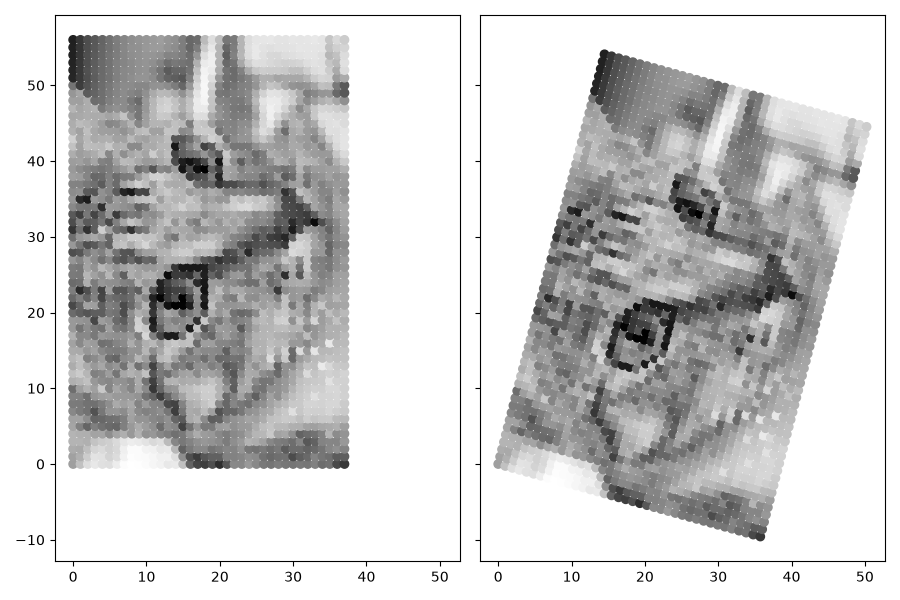
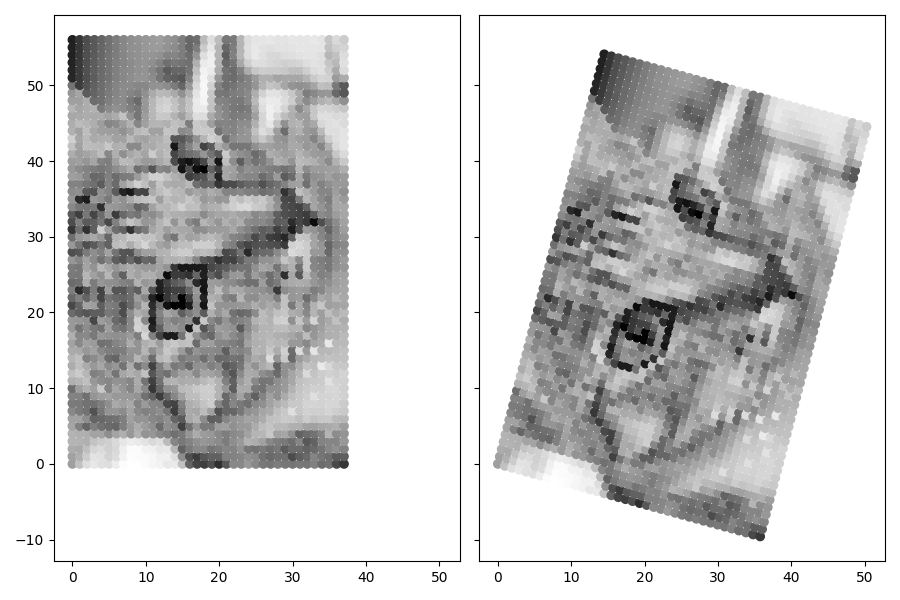
add lab2.py

diff --git a/Lab2/lab2.py b/Lab2/lab2.py
@@ -4,89 +4,117 @@ from skimage import data
 from skimage.transform import warp, AffineTransform
 from scipy.spatial.distance import cdist
 
-# ---------- Zadanie 1 ----------
-fig, ax = plt.subplots(3, 2, figsize=(10, 7))
+# Zadanie 1
+fig1, ax1 = plt.subplots(2, 2, figsize=(10, 7))
 
-img = data.chelsea()            # jak nie dziala, to: img = data.cat()
-ax[0, 0].imshow(img)
-ax[0, 0].set_title('Chelsea')
+obraz = data.cat()
+ax1[0,0].imshow(obraz)
+ax1[0,0].set_title('Chelsea')
 
-mono = np.mean(img, axis=2)     # srednia z 3 kanalow -> obraz szary
-male = mono[::8, ::8]           # co osmy piksel w obu osiach
-ax[0, 1].imshow(male, cmap='binary_r')
-ax[0, 1].set_title('Zmniejszenie + Mono')
+mono = np.mean(obraz, axis=2)
 
-kat = np.radians(15)            # 15 stopni na radiany
+male = mono[::8,::8]
 
-rotacja = np.array([[ np.cos(kat), np.sin(kat), 0],
-                    [-np.sin(kat), np.cos(kat), 0],
-                    [ 0,           0,           1]])
+ax1[0,1].imshow(male, cmap='binary_r')
+ax1[0,1].set_title('Zmnniejszony + Mono')
 
-pochylenie = np.array([[1, 0.5, 0],
-                       [0, 1,   0],
-                       [0, 0,   1]])
+kat = np.radians(15)
+c = np.cos(kat)
+s = np.sin(kat)
 
-obraz_rot = warp(male, AffineTransform(matrix=rotacja))
-obraz_poch = warp(male, AffineTransform(matrix=pochylenie))
+rotacja = np.array([[ c, s, 0],
+                    [-s, c, 0],
+                    [ 0, 0, 1]])
 
-ax[1, 0].imshow(obraz_rot, cmap='binary_r')
-ax[1, 0].set_title('Rotacja')
-ax[1, 1].imshow(obraz_poch, cmap='binary_r')
-ax[1, 1].set_title('Pochylenie')
+pochylenie = np.array([[1, -0.5, 0],
+                       [0, 1, 0],
+                       [ 0, 0, 1]])
+
+transformacja_rotacja = AffineTransform(matrix = rotacja)
+transformacja_pochylenie = AffineTransform(matrix = pochylenie)
+
+obraz_rotacja = warp(male, rotacja)
+obraz_pochylenie = warp(male, pochylenie)
+
+ax1[1,0].imshow(obraz_rotacja, cmap='binary_r')
+ax1[1,0].set_title('Rotacja')
+ax1[1,1].imshow(obraz_pochylenie, cmap='binary_r')
+ax1[1,1].set_title('Pochylenie')
 
 plt.tight_layout()
 plt.savefig('zad1.png')
 
-# ---------- Zadanie 2 ----------
-fig, ax = plt.subplots(1, 2, figsize=(9, 6), sharex=True, sharey=True)
+# Zadanie 2
+
+fig2, ax2 = plt.subplots(1, 2, figsize=(9, 6), sharex=True, sharey=True)
+
+wiersze = male.shape[0]
+kolumny = male.shape[1]
 
 wsp = []
-for i in range(male.shape[0]):
-    for j in range(male.shape[1]):
+for i in range(wiersze):
+    for j in range(kolumny):
         wsp.append([i, j])
-wsp = np.array(wsp)             # ksztalt (2166, 2)
+wsp = np.array(wsp)
 
-kolory = male.flatten()         # obraz 2D -> jeden dlugi wektor
+kolory = male.flatten()
 
-ax[0].scatter(wsp[:, 0], wsp[:, 1], c=kolory, cmap='binary_r')
+x = wsp[:, 0]
+y = wsp[:, 1]
+
+ax2[0].scatter(x,y, c = kolory, cmap='binary_r')
+#ax2[0].set_title('test')
 
 jedynki = np.ones(len(wsp))
-wsp3 = np.column_stack((wsp, jedynki))   # ksztalt (2166, 3)
+wsp3 = np.column_stack((wsp, jedynki))
 
-nowe = (rotacja @ wsp3.T).T     # A x [x, y, 1] dla kazdego punktu
+nowe = []
+for punkt in wsp3:
+    nowy_punkt = rotacja @ punkt
+    nowe.append(nowy_punkt)
+nowe = np.array(nowe)
 
-ax[1].scatter(nowe[:, 0], nowe[:, 1], c=kolory, cmap='binary_r')
+# print("Po dodaniu jedynek:")
+# print(nowe)
+
+nowe_x = nowe[:, 0]
+nowe_y = nowe[:, 1]
+
+ax2[1].scatter(nowe_x, nowe_y, c=kolory, cmap='binary_r')
 
 plt.tight_layout()
 plt.savefig('zad2.png')
 
-# ---------- Zadanie 3 ----------
-fig, ax = plt.subplots(1, 3, figsize=(12, 6))
+# Zadanie 3
+fig3, ax3 = plt.subplots(1, 3)
 
-ax[0].scatter(wsp[:, 0], wsp[:, 1], c=kolory, cmap='binary_r')
+ax3[0].scatter(x, y, c=kolory, cmap='binary_r')
 
-indeksy = np.random.choice(len(wsp), 1000, replace=False)
-wsp_los = wsp[indeksy]
-kolory_los = kolory[indeksy]
+ile_punktow = len(wsp)
+indeksy = np.random.choice(ile_punktow, 1000, replace=False)
 
-ax[1].scatter(wsp_los[:, 0], wsp_los[:, 1], c=kolory_los, cmap='binary_r')
+wspolrzedne_losowych = wsp[indeksy]
+kolory_losowych = kolory[indeksy]
 
-nowe_x = np.linspace(0, male.shape[0] - 1, 300)
-nowe_y = np.linspace(0, male.shape[1] - 1, 400)
+ax3[1].scatter(wspolrzedne_losowych[:, 0], wspolrzedne_losowych[:, 1], c=kolory_losowych, cmap='binary_r')
 
-xs = []
-ys = []
-wartosci = []
-for x in nowe_x:
-    for y in nowe_y:
-        odl = cdist([[x, y]], wsp_los)      # odleglosc do 1000 punktow
-        najblizszy = np.argmin(odl)         # indeks najblizszego
-        xs.append(x)
-        ys.append(y)
-        wartosci.append(kolory_los[najblizszy])
+siatka_x = np.linspace(0, wiersze - 1, 300)
+siatka_y = np.linspace(0, kolumny - 1, 400)
 
-ax[2].scatter(xs, ys, c=wartosci, cmap='binary_r', s=1)
+wynik_x = []
+wynik_y = []
+wynik_kolory = []
+
+for px in siatka_x:
+    for py in siatka_y:
+        odlegolosc = cdist([[px, py]], wspolrzedne_losowych)
+        najblizszy = np.argmin(odlegolosc)
+        wynik_x.append(px)
+        wynik_y.append(py)
+
+        wynik_kolory.append(kolory_losowych[najblizszy])
+
+ax3[2].scatter(wynik_x, wynik_y, c=wynik_kolory, cmap='binary_r')
 
 plt.tight_layout()
 plt.savefig('zad3.png')
-plt.show()
